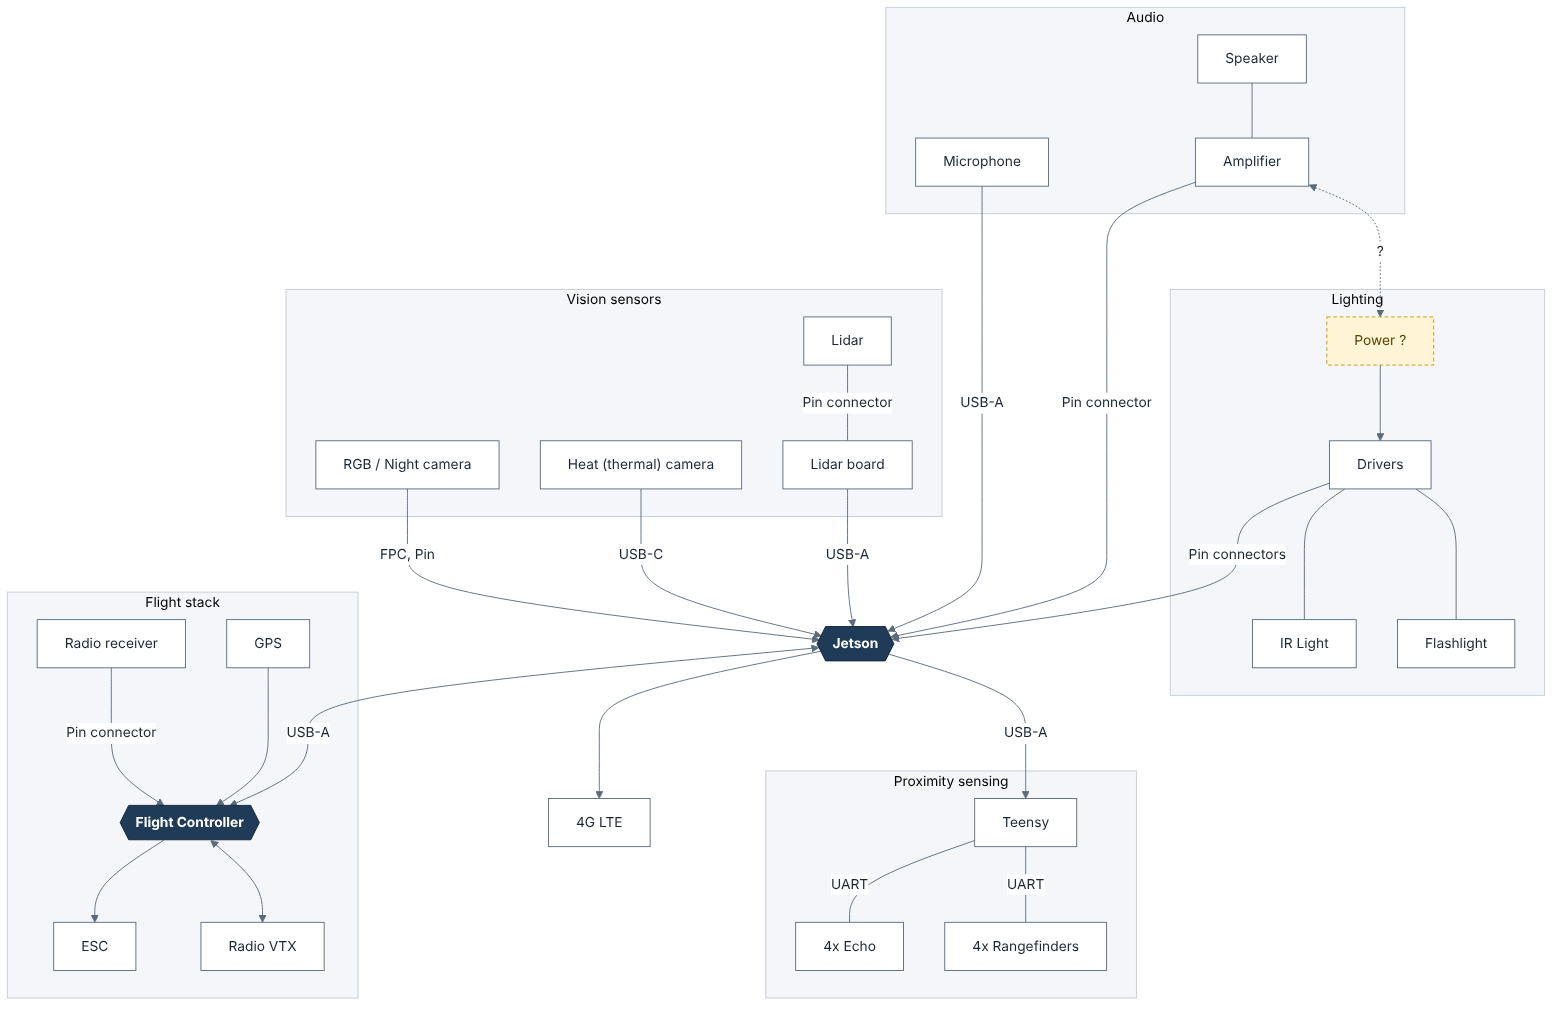
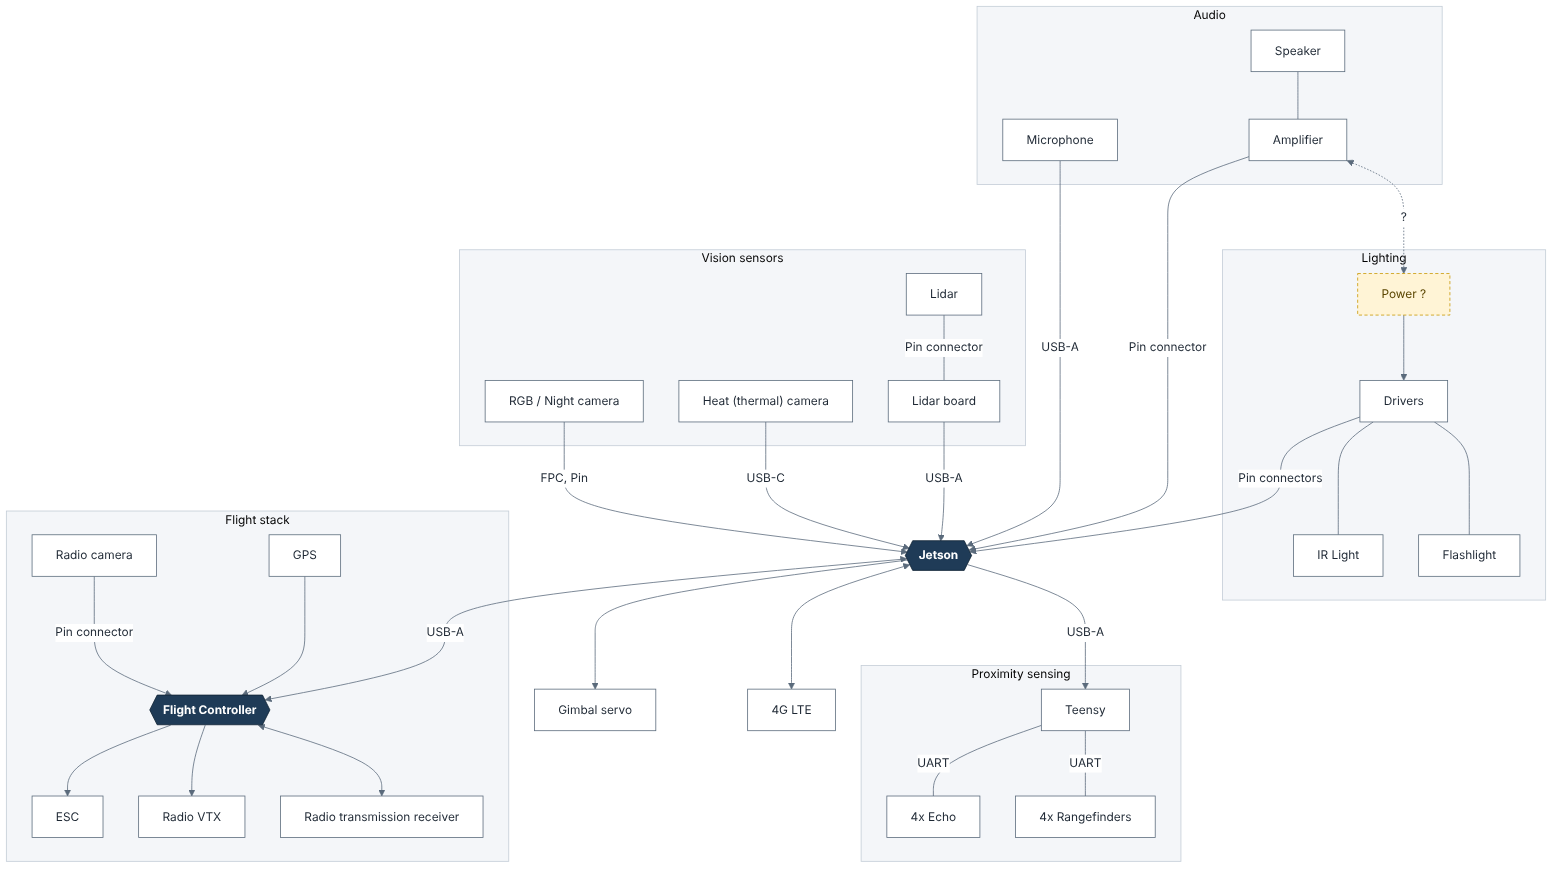
Fix diagram connections per review
- 4G LTE link to Jetson is bidirectional
- Rename "Radio receiver" to "Radio camera"
- Radio VTX is one-way out of the flight controller
- Add radio transmission receiver, bidirectional with the FC
- Add gimbal servo connected to the Jetson

Claude-Session: https://claude.ai/code/session_01RTABPBcZUhJ2tuLBv9KcmY

diff --git a/docs/hardware-diagram.md b/docs/hardware-diagram.md
@@ -48,6 +48,7 @@ flowchart TB
     %% ---------- Companion computer ----------
     JETSON{{"Jetson"}}
     LTE["4G LTE"]
+    GIMBAL["Gimbal servo"]
 
     %% ---------- Proximity sensing ----------
     subgraph PROX["Proximity sensing"]
@@ -63,13 +64,15 @@ flowchart TB
     subgraph FLIGHT["Flight stack"]
         direction TB
         FC{{"Flight Controller"}}
-        RX["Radio receiver"]
+        RCAM["Radio camera"]
+        RTR["Radio transmission receiver"]
         GPS["GPS"]
         VTX["Radio VTX"]
         ESC["ESC"]
-        RX -- "Pin connector" --> FC
+        RCAM -- "Pin connector" --> FC
+        FC <--> RTR
         GPS --> FC
-        FC <--> VTX
+        FC --> VTX
         FC --> ESC
     end
 
@@ -82,7 +85,8 @@ flowchart TB
     HEAT -- "USB-C" --> JETSON
     LBOARD -- "USB-A" --> JETSON
     JETSON -- "USB-A" --> TEENSY
-    JETSON --> LTE
+    JETSON <--> LTE
+    JETSON --> GIMBAL
     JETSON <-- "USB-A" --> FC
 
     %% ---------- Styling ----------
@@ -111,11 +115,13 @@ flowchart TB
 | Lidar board | Jetson | USB-A | |
 | Jetson | Teensy | USB-A | |
 | Teensy | 4x Rangefinders, 4x Echo | UART | |
-| Jetson | 4G LTE | — | Interface not labeled in the sketch |
+| Jetson | 4G LTE | — | Bidirectional; interface not labeled in the sketch |
+| Jetson | Gimbal servo | — | Interface not labeled in the sketch |
 | Jetson | Flight Controller | USB-A | Bidirectional |
-| Radio receiver | Flight Controller | Pin connector | |
+| Radio camera | Flight Controller | Pin connector | |
+| Radio transmission receiver | Flight Controller | — | Bidirectional |
 | GPS | Flight Controller | — | |
-| Flight Controller | Radio VTX | — | Bidirectional |
+| Flight Controller | Radio VTX | — | One-way, out of the FC |
 | Flight Controller | ESC | — | |
 
 ## Regenerating the images
